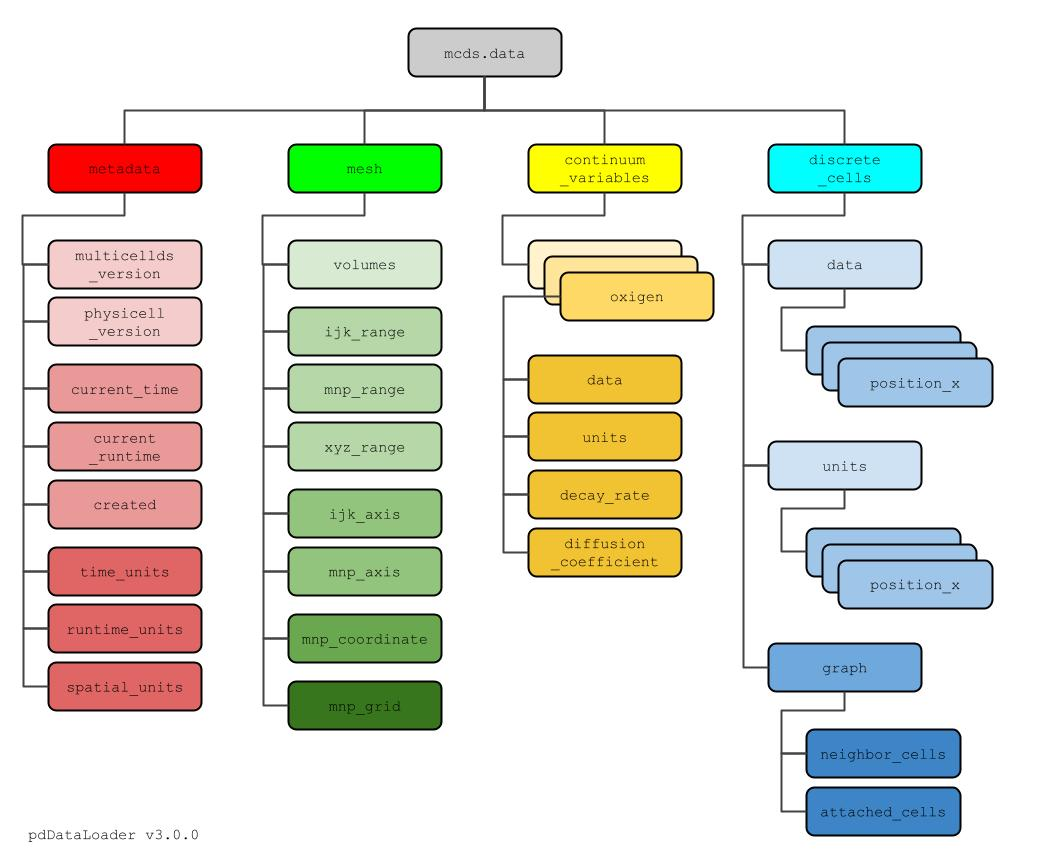
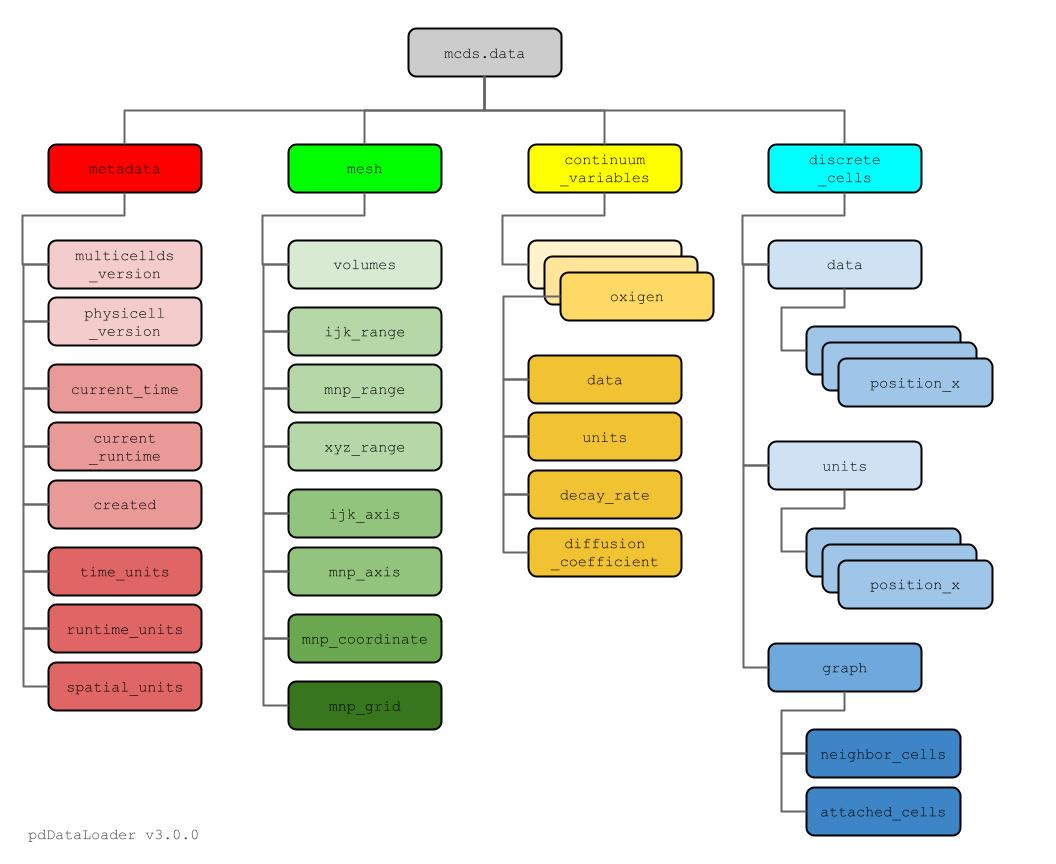
@ man : user manual beeing continued.

diff --git a/man/TUTORIAL.md b/man/TUTORIAL.md
@@ -75,14 +75,14 @@ Regarding **version 1**, the structure has slightly change.\
 However, in **version 3**, all data is accessible by functions, thus there should be no need to fetch data directely form the `mcds.data` dictionary!\
 Anyhow, let’s take a look at what we actually have in here.
 
-![heat.clusterbar and heat.clustermap images](img/pcdataloader_data_dictionary_v3.0.0.jpg)
+![mcds.data dictionary blue print](img/pcdataloader_data_dictionary_v3.0.0.png)
 
 ```python
 # main data branches
-sorted(mcds.data.keys())  # metadata, mesh, continuum_variables, and discrete_cells.
+sorted(mcds.data.keys())  # metadata, mesh, substrate (continuum_variables), and agent (discrete_cells).
 
 # metadata
-sorted(mcds.data['metadata'].keys())  # multicellds version, physicell version, simulaton time, runtime, time stamp, spatial unit, time unit.
+sorted(mcds.data['metadata'].keys())  # multicellds version, physicell version, simulation time, runtime, time stamp, time unit, and spatial unit.
 
 # mesh
 sorted(mcds.data['mesh'].keys())  # voxel (ijk), mesh (nmp), and position (xyz) range, axis, coordinate, grid objects, and voxel volume.
@@ -94,10 +94,9 @@ sorted(mcds.data['continuum_variables']['oxygen'].keys())  # substrat related da
 # cell
 sorted(mcds.data['discrete_cells'].keys())  # data, units, and graph dictionaries.
 sorted(mcds.data['discrete_cells']['data'].keys()  # all cell realted, tracked data.
+sorted(mcds.data['discrete_cells']['unit'].keys()  # all units from the cell realted, tracked data.
 sorted(mcds.data['discrete_cells']['graph'].keys())  # neighbor_cells and attached_cells graph dictionaries.
 ```
-
-
 
 
 Now, less access this data by the objects function.
